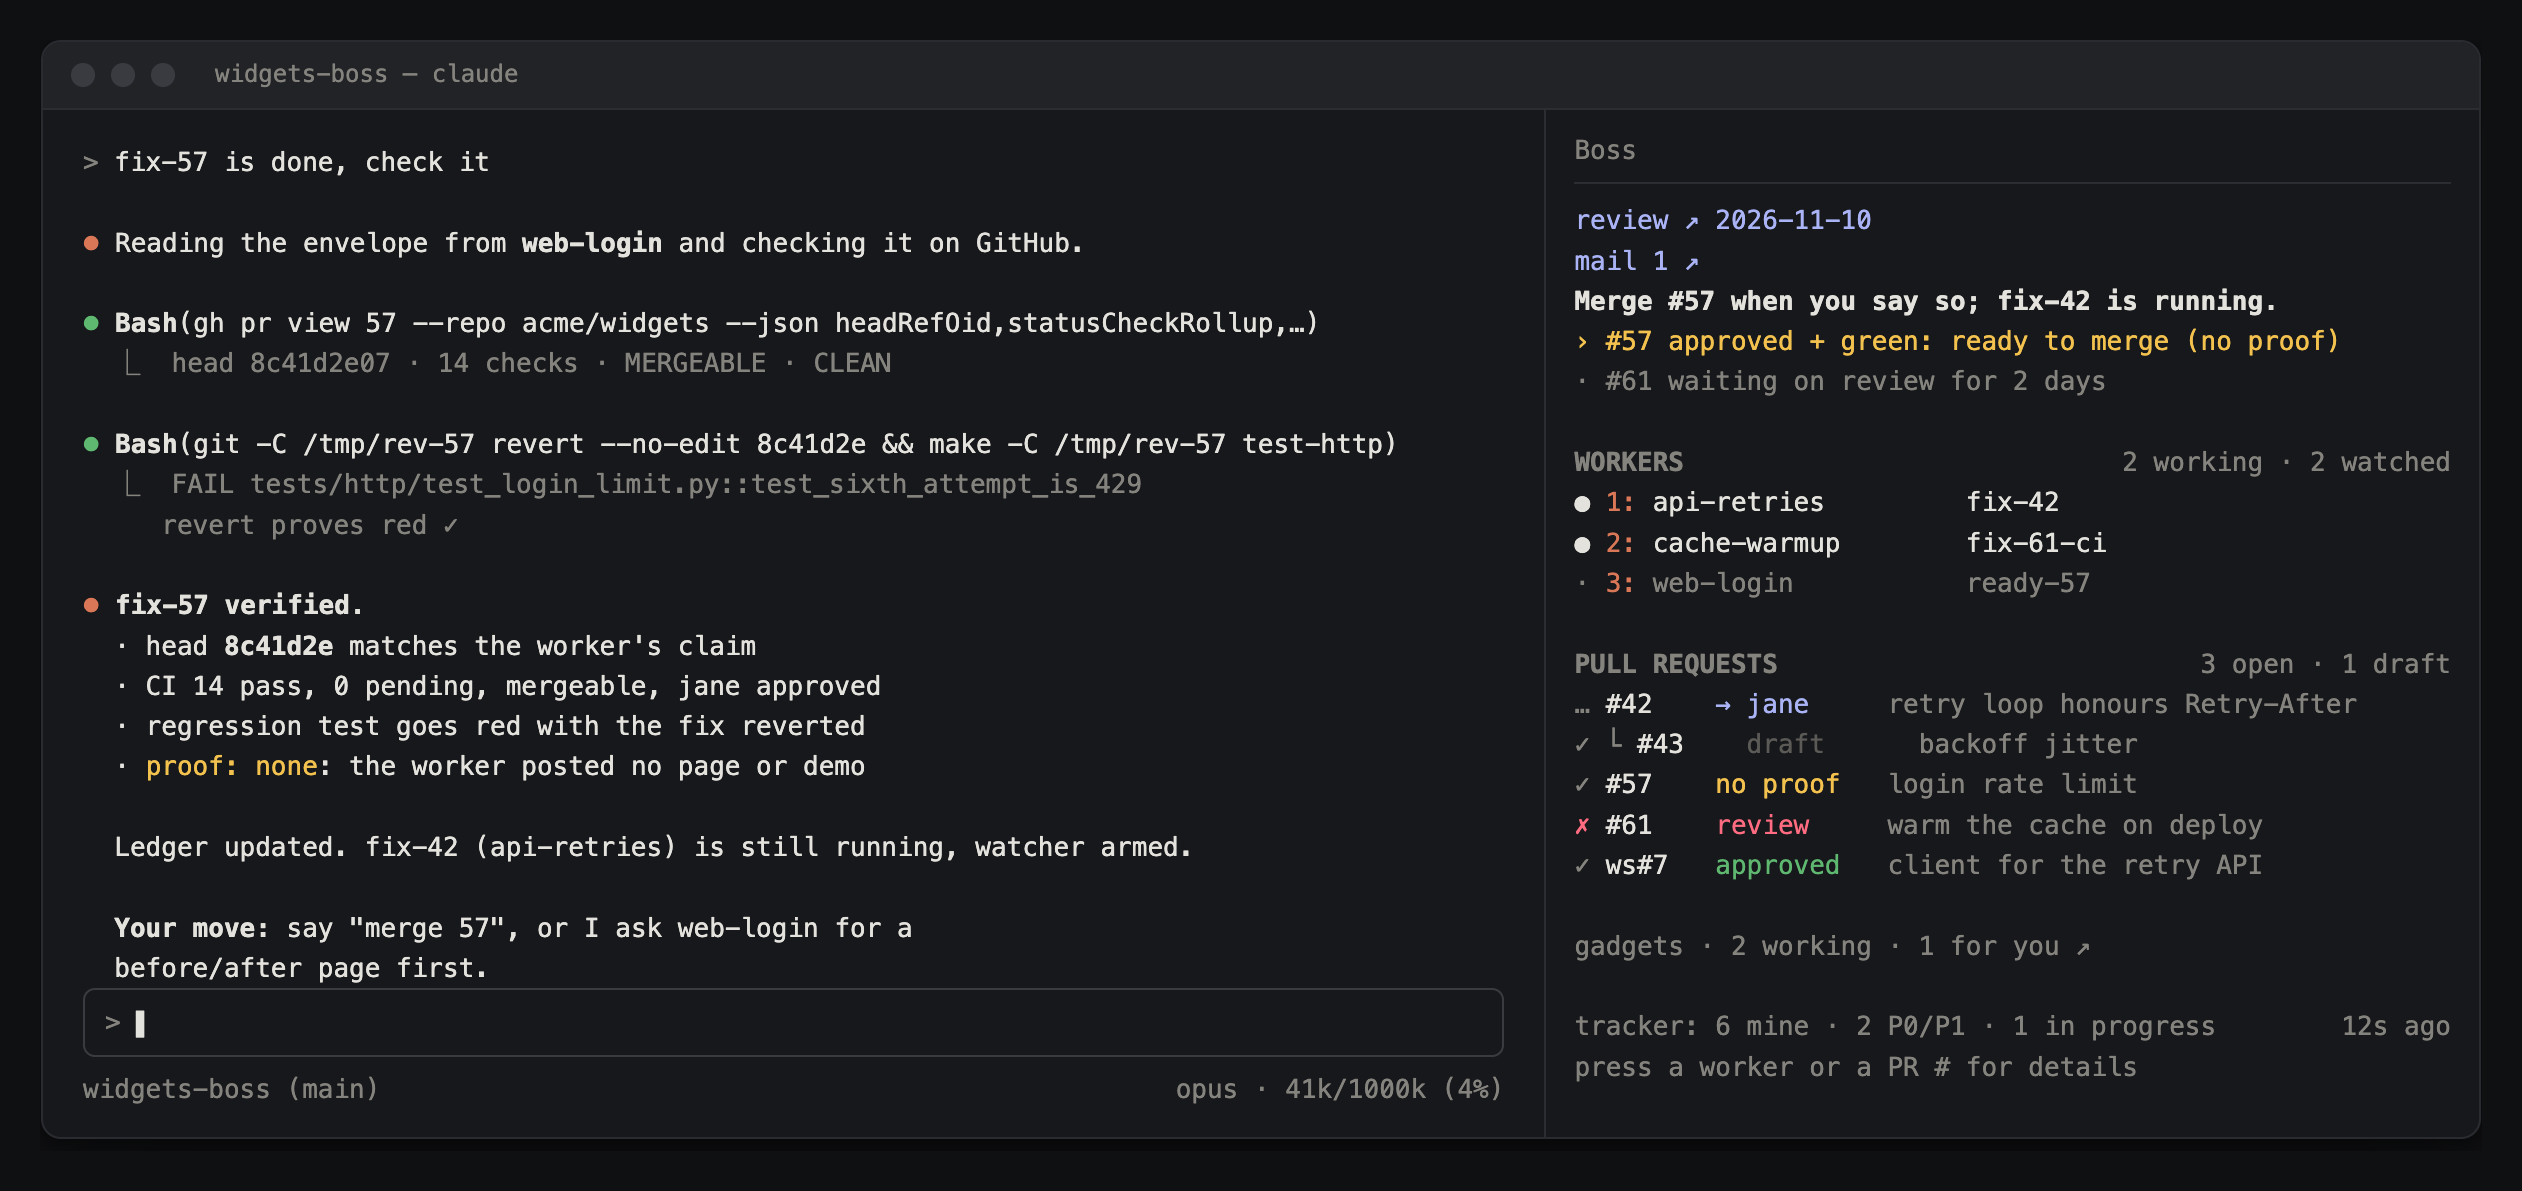
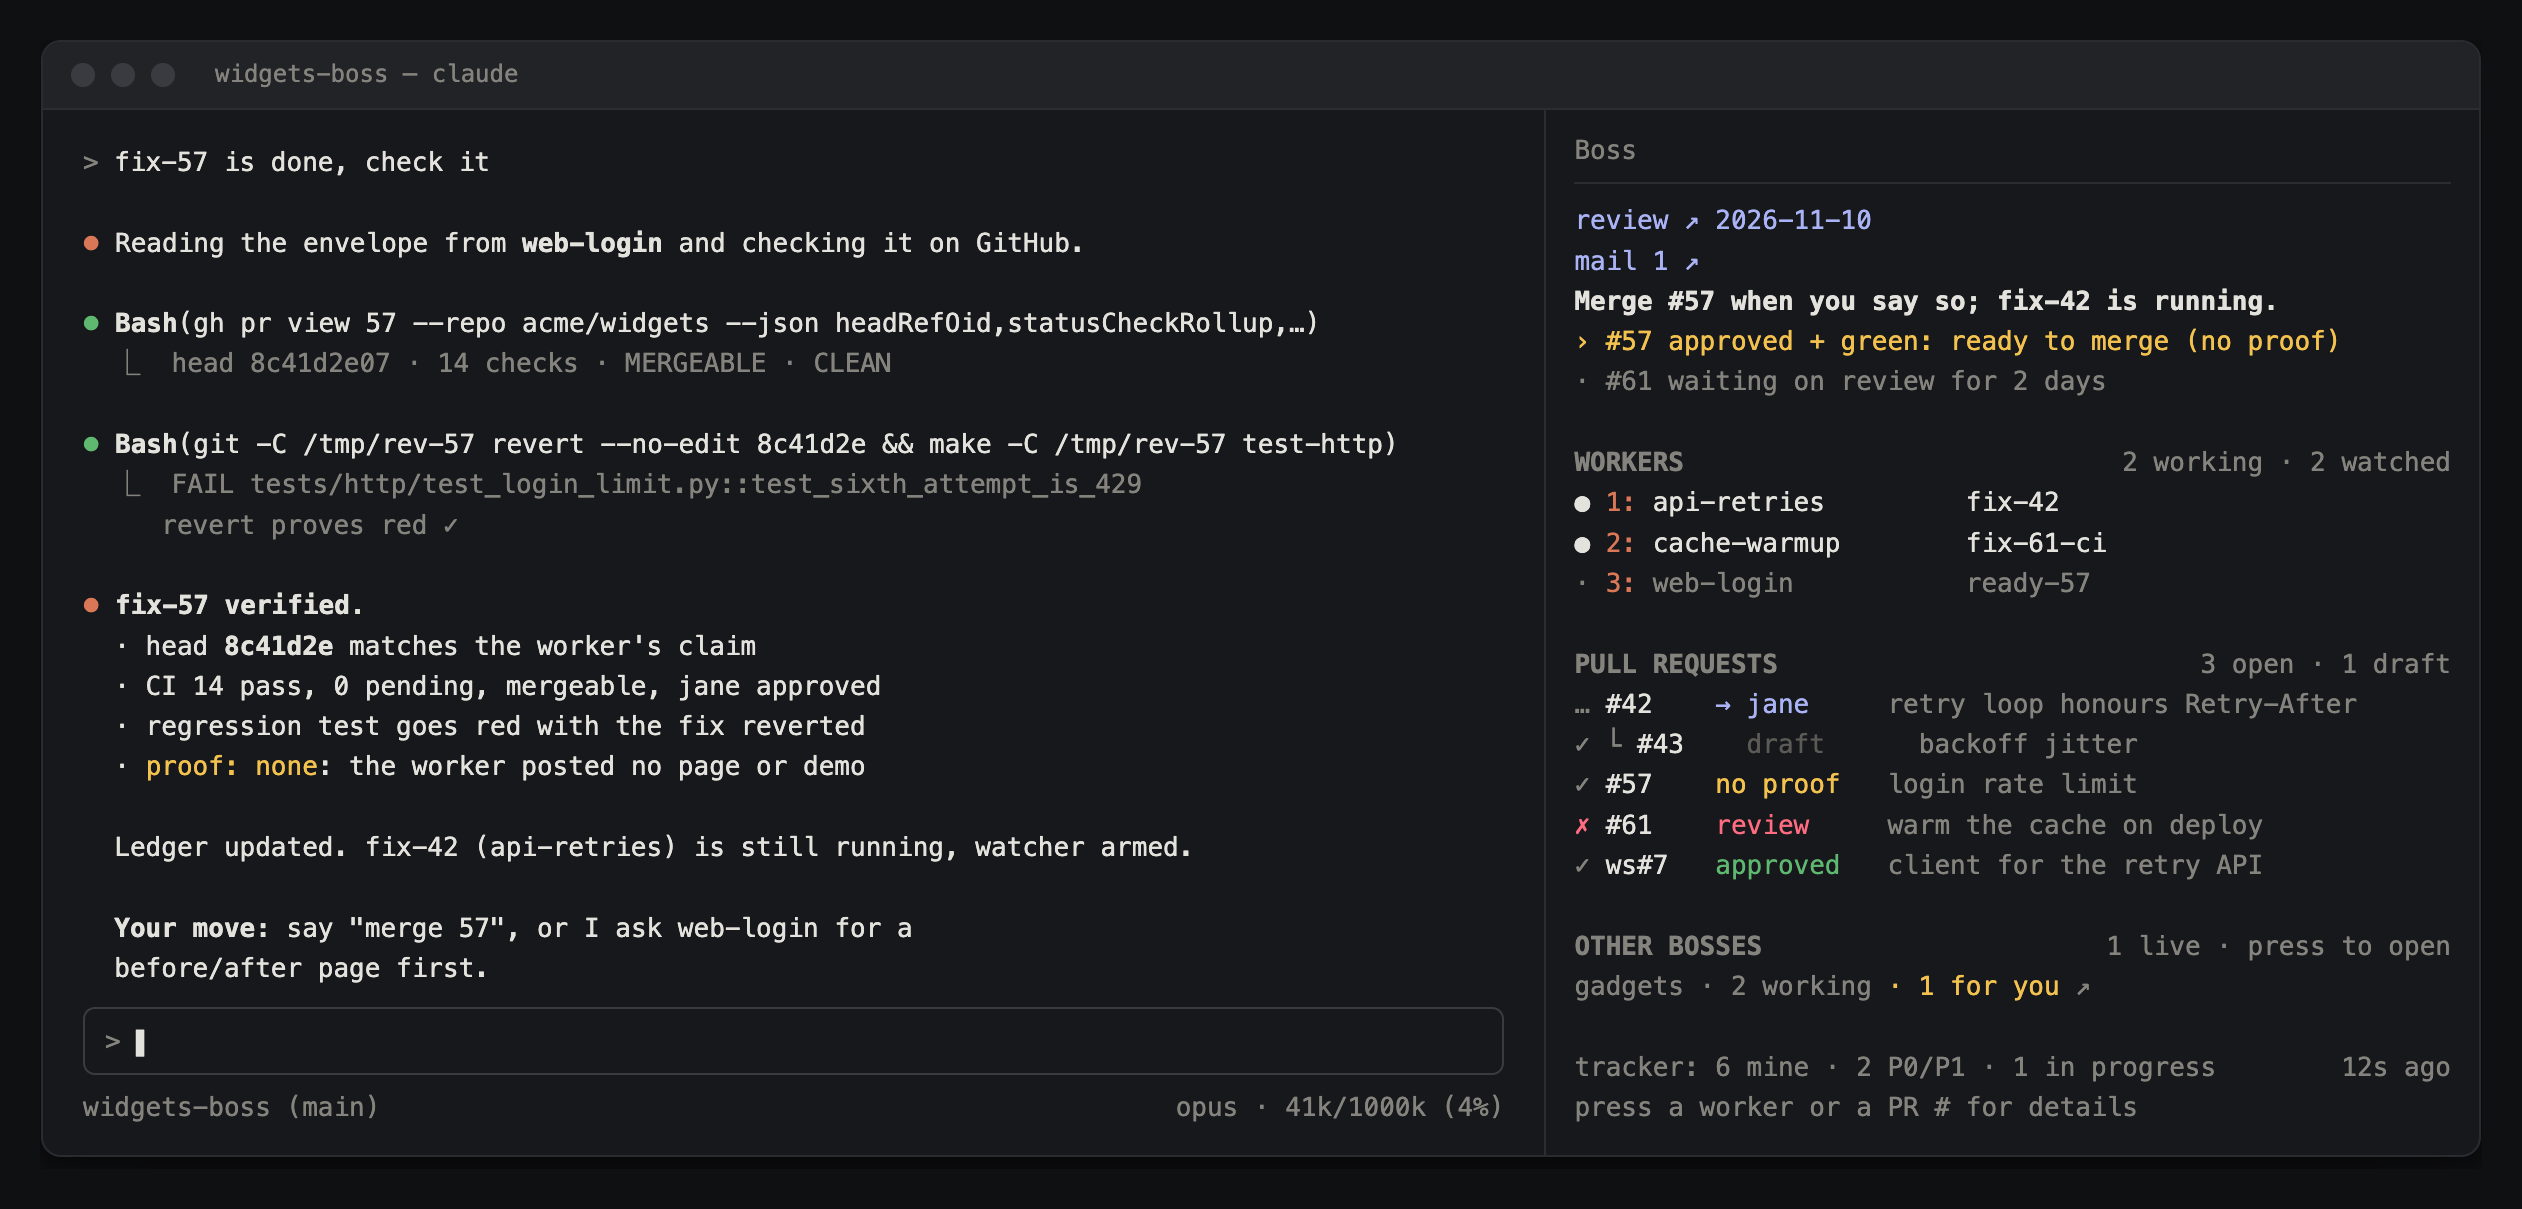
boss-deck: an OTHER BOSSES section, with 'N for you' in yellow
The other live bosses sat under the PRs with no heading, reading like a log, and their
'N for you' stayed grey although it needs the user. boss-deck 0.5.5.

diff --git a/mods/boss-deck/hooks/register.tsx b/mods/boss-deck/hooks/register.tsx
@@ -308,12 +308,18 @@ export const register: Register = on => {
         )}
 
         {(d.others ?? []).length > 0 && (
-          <Box flexDirection="column" marginTop={1}>
-            {(d.others ?? []).map(b => (
-              <Button plain key={`boss-${b.id}`} onPress={() => void openWorkspace($, b.workspace)}>
-                <Text dimColor>{otherBossLine(b)}</Text>
-              </Button>
-            ))}
+          <Box flexDirection="column">
+            {section('other bosses', `${(d.others ?? []).length} live · press to open`)}
+            {(d.others ?? []).map(b => {
+              const line = otherBossLine(b)
+              return (
+                <Button plain key={`boss-${b.id}`} onPress={() => void openWorkspace($, b.workspace)}>
+                  <Text dimColor>{line.quiet}</Text>
+                  {line.forYou && <Text color="warning">{line.forYou}</Text>}
+                  <Text dimColor> ↗</Text>
+                </Button>
+              )
+            })}
           </Box>
         )}
 

diff --git a/mods/boss-deck/tests/details.test.ts b/mods/boss-deck/tests/details.test.ts
@@ -43,10 +43,10 @@ test('only a ready-to-merge PR without proof is flagged', () => {
   expect(needsProof({ ...ready, review: '' })).toBe(false)
 })
 
-test('another live boss reads as one quiet line', () => {
+test('another live boss reads as one quiet line, its "for you" part apart so it can be colored', () => {
   const b = { id: 'b', project: 'widgets', workspace: 'ws-b', working: 2, forYou: 1 }
-  expect(otherBossLine(b)).toBe('widgets · 2 working · 1 for you ↗')
-  expect(otherBossLine({ ...b, forYou: 0 })).toBe('widgets · 2 working ↗')
+  expect(otherBossLine(b)).toEqual({ quiet: 'widgets · 2 working', forYou: ' · 1 for you' })
+  expect(otherBossLine({ ...b, forYou: 0 })).toEqual({ quiet: 'widgets · 2 working', forYou: '' })
 })
 
 test('unread mail becomes one context line, none when the inbox is empty', () => {

diff --git a/mods/boss-deck/hooks/details.ts b/mods/boss-deck/hooks/details.ts
@@ -111,9 +111,9 @@ export function needsProof(p: Pr): boolean {
   return !p.draft && p.review === 'APPROVED' && p.ci === 'green' && p.proof.length === 0
 }
 
-/** One quiet line per other live boss: "<project> · N working · M for you ↗". */
-export function otherBossLine(b: OtherBoss): string {
-  return `${b.project} · ${b.working} working${b.forYou ? ` · ${b.forYou} for you` : ''} ↗`
+/** One line per other live boss, "<project> · N working · M for you ↗", split so "M for you" can be colored. */
+export function otherBossLine(b: OtherBoss): { quiet: string; forYou: string } {
+  return { quiet: `${b.project} · ${b.working} working`, forYou: b.forYou ? ` · ${b.forYou} for you` : '' }
 }
 
 /** The context line a prompt carries while mail is unread, or none. */

diff --git a/mods/boss-deck/tests/pane.test.tsx b/mods/boss-deck/tests/pane.test.tsx
@@ -32,7 +32,8 @@ test('the pane passes its workspace, and draws each other boss once, short repo 
 
   const ui = await $.ui.mount({ plugin: 'boss-deck', surface: 'terminal', component: 'Pane', requestId: 'boss-deck', props: {} as never })
   const texts = (await ui.findAll({ type: 'Text' })).map(t => t.text)
-  expect(texts.filter(t => /working ↗$/.test(t ?? ''))).toEqual(['gadgets · 1 working ↗', 'gizmos · 0 working ↗'])
+  expect(texts).toContain('OTHER BOSSES')
+  expect(texts.filter(t => /^\w+ · \d+ working$/.test(t ?? ''))).toEqual(['gadgets · 1 working', 'gizmos · 0 working'])
   expect(texts).toContain('#7')
   expect(texts).toContain('ws#42')
   expect(texts).toContain('retry-43')

diff --git a/docs/src/shots.html b/docs/src/shots.html
@@ -121,7 +121,8 @@ const main =
   pr('✓', 0, '#57', 'no proof', 'login rate limit', 'wa') +
   pr('✗', 0, '#61', 'review', 'warm the cache on deploy', 'er') +
   pr('✓', 0, 'ws#7', 'approved', 'client for the retry API', 'ok') +
-  '\n' + line(seg('gadgets · 2 working · 1 for you ↗', 'd')) +
+  section('other bosses', '1 live · press to open') +
+  line(seg('gadgets · 2 working', 'd'), seg(' · 1 for you', 'wa'), seg(' ↗', 'd')) +
   foot('12s', 'tracker: 6 mine · 2 P0/P1 · 1 in progress')
 
 const peek =

diff --git a/mods/boss-deck/README.md b/mods/boss-deck/README.md
@@ -8,7 +8,7 @@ A quiet, read-only Claude Code pane for a boss session. It shows:
 - **what needs you**: blocked workers, idle workers whose dispatch has no watcher, stale watchers, red CI, and PRs that are approved and green
 - **workers**: each dispatched Paradev workspace with its current task (from the ledger) and live state. Press the row (or its key, 1–9) to expand it: state, branch, what it is doing, its last envelope, context use, watcher, its proof links (`page ↗`, `demo ↗`) from the ledger, and `open workspace ↗`
 - **pull requests**: as a stack tree, colored by status (green approved, blue waiting on a reviewer, yellow conflict, red CI, grey draft). Press the number for CI, mergeability, reviews and size, plus "open on GitHub" and its proof (`demo ↗`, `page ↗`, `artifact ↗`, found in the PR body and comments). An approved, green PR without proof reads **no proof** in yellow. PRs idle for 10+ days fold into one line
-- **other live bosses**: one quiet line each (`<project> · N working · M for you ↗`), which opens that boss's workspace
+- **other bosses**: a section with one line per other live boss (`<project> · N working · M for you ↗`, "M for you" in yellow), which opens that boss's workspace
 - **footer**: a tracker summary (`tracker: N mine · N P0/P1 · N in progress`) only when one is synced, and **N new shared lessons** when shared lessons were added since this boss's last session
 
 It loads only in a session whose working directory has a `CLAUDE.local.md` with `# Boss workspace <id>`, where `<id>` is that session's `$SUPERSET_WORKSPACE_ID` (a bare `# Boss workspace` matches any session). A copy of the file in another worktree, or another workspace on the same checkout, gets no pane and sends no heartbeat. Data comes from `bin/boss-deck-data.py` under `$BOSS_KIT_HOME` (default `~/.claude/boss-kit`). It reads project data from `$BOSS_HOME` (default `~/.claude/boss`), and each refresh is this boss's heartbeat. It refreshes every 60 s and right after the boss dispatches, merges or comments. `/boss-deck` opens and refreshes it.

diff --git a/README.md b/README.md
@@ -332,7 +332,7 @@ A quiet pane: grey by default, color only for what needs you. Here with a worker
 - **Press a worker row** (or its key, `1`–`9`, once the pane has focus) to expand it: state and elapsed time, branch, what it's doing, its last envelope, context use (yellow at 60% or more), watcher, its proof links (`page ↗`, `demo ↗`, from the ledger's Proof column), and **`open workspace ↗`**, which opens it in the Paradev app (`superset workspaces open`). Press again to fold it.
 - **Press a PR number** for CI (pass / fail / pending with the failing names), mergeability, reviews, size and head, plus "open on GitHub" and its proof: `demo ↗`, `page ↗`, `artifact ↗`. Links are taken from the PR body and comments: Superset pages, claude.ai artifacts, video files, GitHub attachments and Loom.
 - **`review ↗ <date>`** at the top opens the latest review page (this boss's `review.txt`).
-- **Other live bosses** get one quiet line each, `<project> · N working · M for you ↗`. Press it to open that boss's workspace.
+- **OTHER BOSSES** lists each other live boss on one line, `<project> · N working · M for you ↗`, with `M for you` in yellow. Press it to open that boss's workspace.
 - **The footer** shows `tracker: N mine · N P0/P1 · N in progress` when a tracker is synced (nothing otherwise), `N new shared lessons` added since this boss's last session, and when the pane last updated.
 - **PR status colors:** green approved, blue waiting on a reviewer, yellow conflict, red CI, grey draft. An approved, green PR with no proof shows **`no proof`** in yellow, the only proof-related color. Stacked PRs nest under their base. PRs idle for 10+ days fold into one line.
 - **Refresh:** every 60 s, plus right after the boss dispatches, merges, comments or syncs. `/boss-deck` refreshes on demand. The pane writes no status line.
